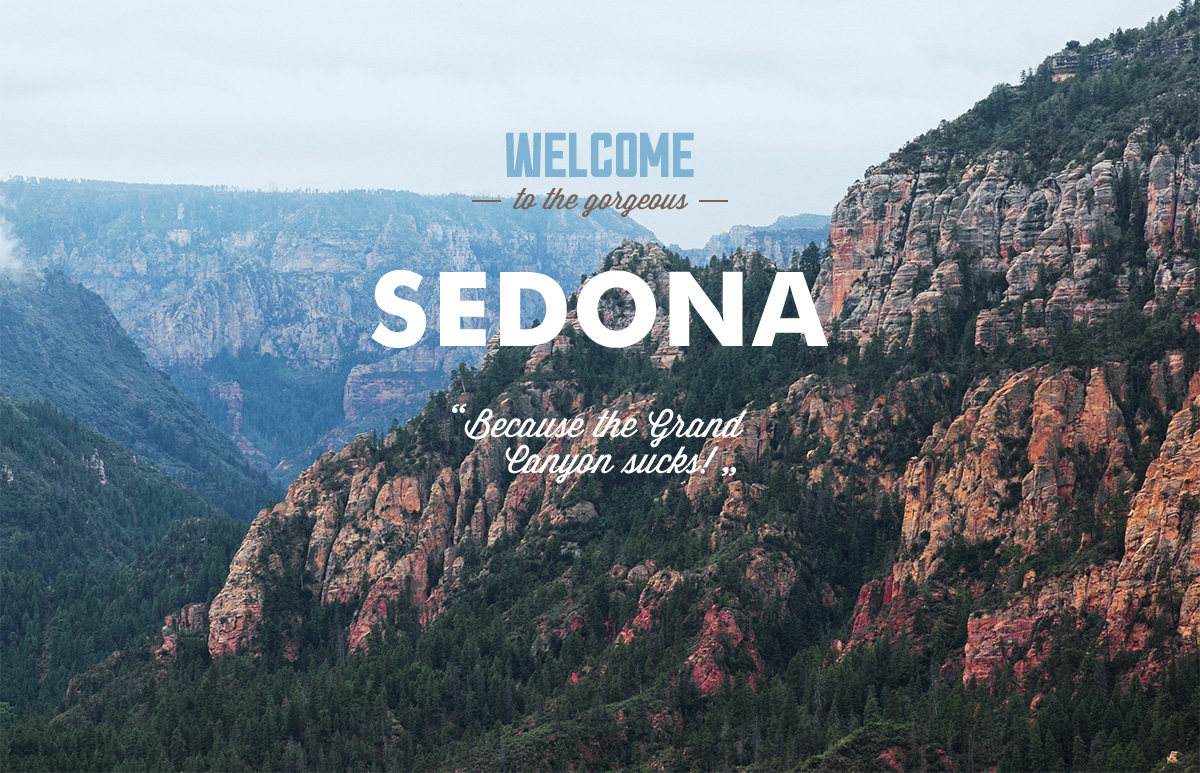
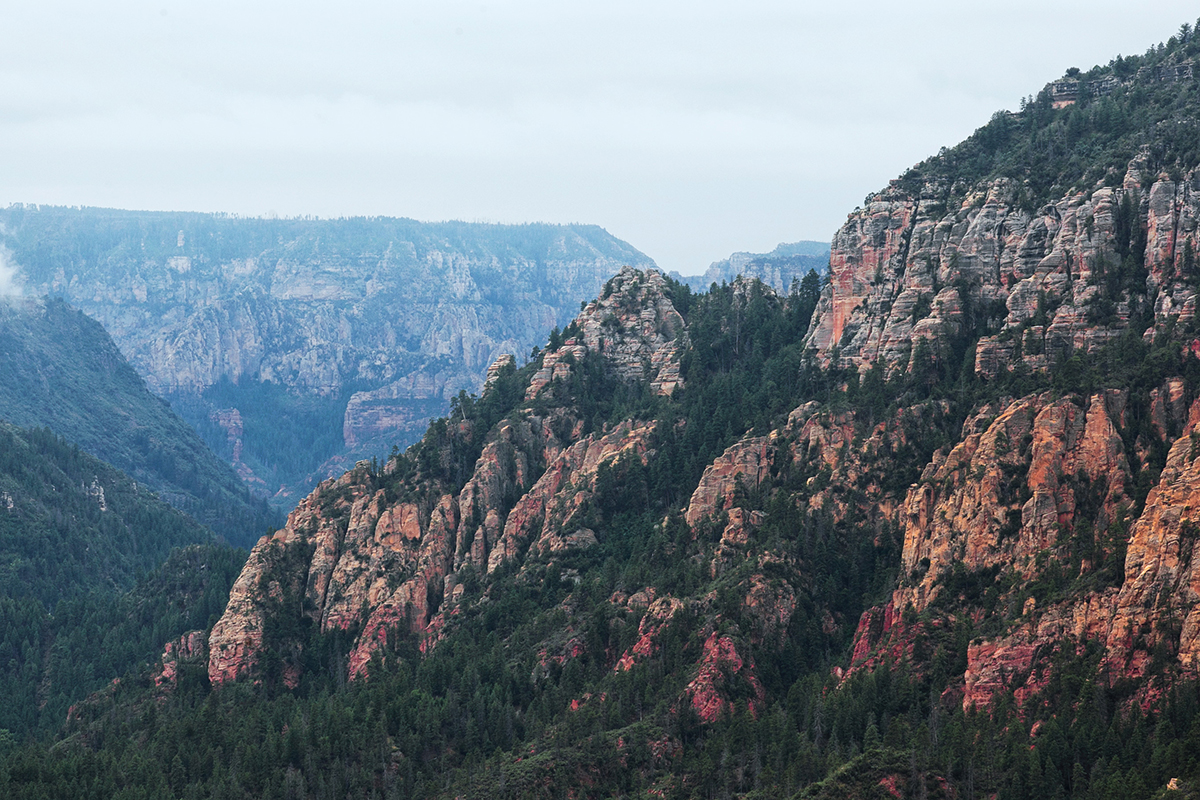
Сетка главной стр СЕДОНЫ

diff --git a/index.html b/index.html
@@ -12,22 +12,23 @@
     </div>
     <nav class="main-navigation">
       <div class="container-left">
-        <ul>
-          <li><a href="#">Информация</a></li>
-          <li><a href="#">Фото и видео</a></li>
-        </ul>
+
+          <a class="main-nav-item" href="#">Информация</a></li>
+          <a class="main-nav-item" href="#">Фото и видео</a></li>
+      
       </div>
       <div class="container-right">
         <ul>
-          <li><a href="#">Карта штата</a></li>
-          <li><a href="#">Гостиницы</a></li>
+          <li><a class="main-nav-item" href="#">Карта штата</a></li>
+          <li><a class="main-nav-item" href="#">Гостиницы</a></li>
         </ul>
       </div>
     </nav>
   </header>
   <main class="container">
     <div class="index-img">
-      <h1 class="index-main-title">Welcome to the gorgeous Sedona!</h1>
+      <!--<h1 class="index-main-title">Welcome to the gorgeous Sedona!</h1>-->
+      <img class="welcome-text" src="img/welcome-text.png" alt="Welcome to the gorgeous Sedona!" width="458" height="352">
       <!--background-photo-->
     </div>
     <div class="index-img-mask">
@@ -38,16 +39,16 @@
         <b class="lead">Седона - небольшой городок в аризоне, заслуживающий большего!</b>
         <p>Рассмотрим 5 причин, по которым Седона круче, чем Гранд каньон</p>
       </div>
-      <section class="reason">
-        <div class="reason-1-text">
+      <div class="reason">
+        <div class="reason-text">
           <h2 class="reason-title white">Настоящий городок</h2>
           <p>-№1-</p>
           <p>Седона - не аттракцион для туристов, там течет своя жизнь</p>
         </div>
-        <div class="reason-1-foto">
+        <div class="reason-foto">
           <img src="img/reason1-photo.jpg" alt="Good view" width="800" height="400">
         </div>
-      </section>
+      </div>
       <div class="features">
         <div class="feature-item">
           <h2 class="reason-title">Жилье</h2>
@@ -63,10 +64,10 @@
         </div>
       </div>
       <div class="reason">
-        <div class="reason-2-foto">
+        <div class="reason-foto">
           <img src="img/reason2-photo.jpg" alt="Bridge" width="800" height="400">
         </div>
-        <div class="reason-2-text">
+        <div class="reason-text">
           <h2 class="reason-title white">Там есть мост дьявола</h2>
           <p>-№2-</p>
           <p>Да, по нему можно пройти! Если конечно вы осмелитесь</p>
@@ -92,7 +93,7 @@
     </section>
     <section class="hotel-search">
       <h2 class=hotel-search-title>Заинтересовались?</h2>
-      <p>Укажите предполагаемые даты поездки, и мы покажем Вам лучшие предложения гостиниц в Седоне</p>
+      <p>Укажите предполагаемые даты поездки, <br> и мы покажем Вам лучшие предложения гостиниц в Седоне</p>
       <a class="search-form-button" href="#">Поиск гостиницы в Седоне</a>
       <!--форма поиска гостиницы-->
       <form class="search-form" action="index.html" method="get">
@@ -122,21 +123,19 @@
       <img src="img/map.jpg" alt="Map" width="1200" height="595">
     </section>
   </main>
-  <footer class="main-footer">
-    <div class="container">
-      <section class="footer-tag">
-        #visitsedona
-      </section>
-      <section class="footer-social">
-        <a href="#">Twitter</a>
-        <a href="#">Facebook</a>
-        <a href="#">Youtube</a>
-      </section>
-      <section class="copyright">
-        <p>website by</p>
-        <a href="#">HTML Academy</a>
-      </section>
-    </div>
+  <footer class="footer">
+    <section class="footer-item">
+      <b class="lead">#visitsedona</b>
+    </section>
+    <section class="footer-item">
+      <a class="social-item" href="#"><p>Twitter</p></a>
+      <a class="social-item" href="#"><p>Facebook</p></a>
+      <a class="social-item" href="#"><p>Youtube</p></a>
+    </section>
+    <section class="footer-item">
+      <p>website by</p>
+      <a href="#">HTML Academy</a>
+    </section>
   </footer>
 </body>
 </html>

diff --git a/css/style.css b/css/style.css
@@ -1,46 +1,212 @@
+
+/*Типографика*/
+
 .index-main-title {
-  font-family: "Pt sans";
+  font-family: Pt sans;
   font-size: 50px;
   line-height: 1.2;
-  font-weight: "bold";
+  font-weight: bold;
   color: black;
 }
 
 .lead, .reason-title {
-  font-family: "Pt sans";
+  font-family: Pt sans;
   font-size: 21px;
   line-height: 1.2;
-  font-weight: "bold";
+  font-weight: bold;
   color: black;
   text-transform: uppercase;
 }
 
-.white {
-  color: white;
-}
+/*.white {
+color: white;
+}*/
 
 .hotel-search-title {
-  font-family: "Pt sans";
+  font-family: Pt sans;
   font-size: 30px;
   line-height: 1.2;
-  font-weight: "bold";
+  font-weight: bold;
   color: black;
   text-transform: uppercase;
 }
 
 .hotels-title {
-  font-family: "Pt sans";
+  font-family: Pt sans;
   font-size: 21px;
   line-height: 1.2;
-  font-weight: "bold";
+  font-weight: bold;
   color: black;
   text-transform: uppercase;
 }
 
 body {
-  font-family: "Pt sans";
+  font-family: Pt sans;
   font-size: 14px;
   line-height: 1.2;
-  font-weight: "normal";
+  font-weight: normal;
   color: black;
+  text-transform: uppercase;
+}
+
+.main-nav-item {
+  font-family: Pt sans;
+  font-size: 14px;
+  line-height: 1.2;
+  font-weight: bold;
+  color: black;
+  text-transform: uppercase;
+  text-decoration: none;
+}
+
+/*Header*/
+main {
+
+}
+
+.main-navigation {
+  outline: 2px solid green;
+  display: flex;
+  justify-content: space-between;
+
+}
+
+.container-left, .container-right {
+  outline: 2px solid red;
+  width: 40%;
+  display: flex;
+}
+
+.container-left {
+  margin-left: 6%;
+}
+
+.container-right {
+  margin-right: 6%;
+}
+
+.main-nav-item {
+  display: inline-block;
+    outline: 2px solid yellow;
+    width: 50%;
+  }
+
+/*Index*/
+
+.index-img {
+  outline: 2px solid green;
+  width: 100%;
+  height: 510px;
+  display: flex;
+}
+
+.welcome-text {
+  outline: 2px solid red;
+  margin-top: 75px;
+  margin-bottom: 82px;
+  margin-left: auto;
+  margin-right: auto;
+}
+
+.index-img-mask {
+  outline: 2px solid yellow;
+  margin-top: -60px;
+  min-height: 60px;
+  margin-bottom: 60px;
+}
+
+.reasons-header {
+  outline: 2px solid green;
+  text-align: center;
+  margin-bottom: 55px;
+}
+
+.reason {
+  outline: 2px solid green;
+  display: flex;
+  justify-content: space-between;
+}
+
+.reason-text {
+  outline: 2px solid red;
+  width: 33%;
+  height: 255px;
+}
+
+.reason-foto {
+  outline: 2px solid red;
+  width: 67%;
+  height: 255px;
+}
+
+.features {
+  display: flex;
+  justify-content: space-between;
+}
+
+.feature-item {
+  outline: 2px solid red;
+  width: 33%;
+  height: 330px;
+  text-align: center;
+}
+
+.reason-item {
+  outline: 2px solid red;
+  width: 33%;
+  height: 255px;
+  text-align: center;
+}
+
+.hotel-search {
+  text-align: center;
+  padding-top: 55px;
+}
+
+.search-form-button {
+  display: inline-block;
+  width: 568px;
+  height: 86px;
+  margin-top: 50px;
+  outline: 2px solid red;
+}
+
+.search-form {
+  box-sizing: border-box;
+  width: 568px;
+  height: 395px;
+  outline: 2px solid red;
+  display: flex;
+  justify-content: space-between;
+  flex-direction: column;
+  padding: 55px;
+  margin-left: auto;
+  margin-right: auto;
+}
+
+.map {
+  width: 100%;
+  height: 595px;
+  margin-bottom: -120px;
+}
+
+/*footer*/
+
+.footer {
+  background-color: white;
+  display: flex;
+  justify-content: space-between;
+}
+
+.footer-item {
+  outline: 2px solid red;
+  width: 33%;
+  height: 120px;
+  display: flex;
+  justify-content: center;
+  align-items: center;
+}
+
+.social-item {
+  margin-right: 4px;
 }
